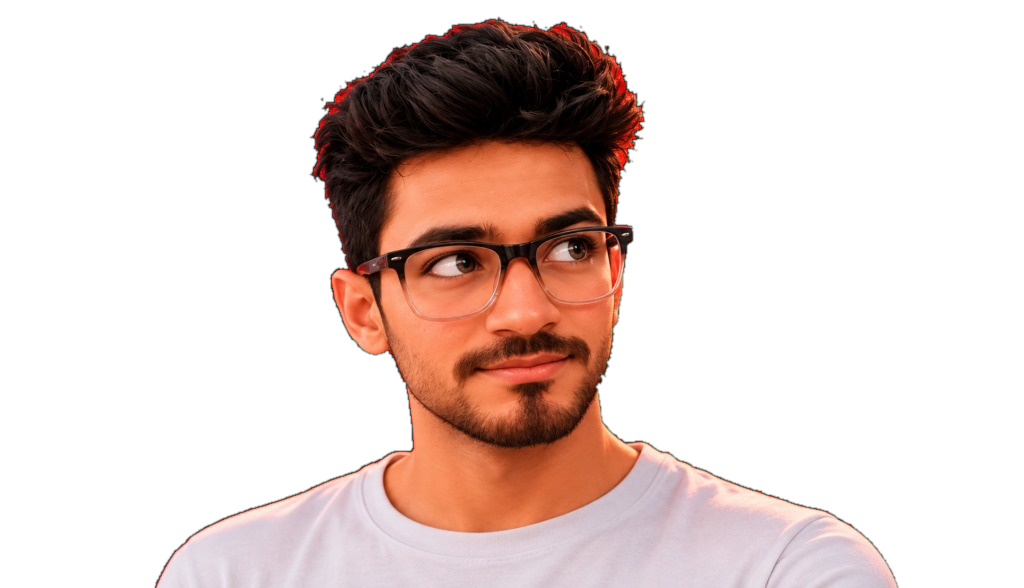
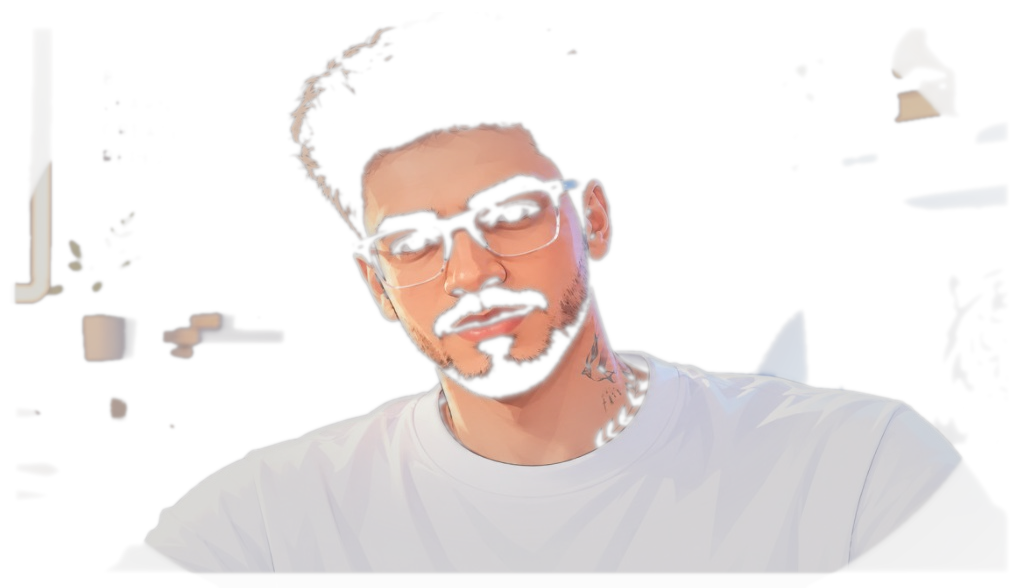
feat(credits): add Felix Reiseberg special thanks entry and sharpen PC CRT rendering
- Add FELIX constant with name, GitHub URL, and role description
- Render 'Special thanks' paragraph in credits card with accent-colored .cred-thanks style
- Add .cred-thanks and .cred-thanks a CSS rules for accent-colored italic attribution
- Switch PC canvas imageSmoothingEnabled to false for pixel-accurate CRT phosphor text
- Update portrait texture (ayush_nobg.png)

diff --git a/public/scene/desktop.js b/public/scene/desktop.js
@@ -2594,7 +2594,7 @@ document.querySelectorAll("[data-page]").forEach(a=>a.addEventListener("click",e
 }));
 $("#home-link").onclick=()=>{ gesture(); pressAnim(buttons[0]); click("button"); go("home"); };
 // Credits: what the licences ask for (the work, its author, where it's from, the licence, and that it was changed: every one is
-// cut, filtered or looped), and a line of thanks for the CC0 work
+// cut, filtered or looped), and a line of thanks for the CC0 work. Felix Reiseberg: design direction throughout the build.
 const CC_BY={"2.0":"https://creativecommons.org/licenses/by/2.0/","4.0":"https://creativecommons.org/licenses/by/4.0/"}, FS="https://freesound.org/people/";
 const CREDITS=[
   ["Berlin Skyline","Billie Grace Ward",null,"https://commons.wikimedia.org/wiki/File:Berin_Skyline_(39941687570).jpg","2.0"],
@@ -2604,12 +2604,15 @@ const CREDITS=[
   ["VCR eject","magedu",FS+"magedu/",FS+"magedu/sounds/267832/","4.0"],
 ];
 const CC0=[["SignatureSoundsOrg","869851"],["photogtony","242008"],["qubodup","737955"],["matrixx2k","745241"],["Sanderboah","838726"],["Fission9","693859"],["Warrick_Lendon","542635"],["nodzSound","506536"]];
+// Special thanks — people who shaped this room with their direction and feedback
+const FELIX={name:"Felix Reiseberg",url:"https://github.com/felixrieseberg",role:"Design direction, UX feedback, and loading screen concept"};
 const extLink=(u,t)=>`<a href="${u}" target="_blank" rel="noopener">${esc(t)}</a>`;
 // On a desktop the card from the card file floats up with the credits typed on it; the sheet's HTML stays in the page, out of
 // sight, for keyboards and screen readers, and the link the keys are on is marked on the card
 function showCredits(){
   openSheet("credits","Credits",`<ul class="cred">${CREDITS.map(([t,a,au,u,v])=>`<li>${extLink(u,t)} · ${au?extLink(au,a):esc(a)} · ${extLink(CC_BY[v],"CC BY "+v)}, adapted</li>`).join("")}</ul>`+
-    `<p class="cred0">CC0, with thanks: sounds by ${CC0.map(([a,n])=>extLink(`${FS}${a}/sounds/${n}/`,a)).join(", ")}; furniture and props from ${extLink("https://polyhaven.com/models","Poly Haven")}.</p>`);
+    `<p class="cred0">CC0, with thanks: sounds by ${CC0.map(([a,n])=>extLink(`${FS}${a}/sounds/${n}/`,a)).join(", ")}; furniture and props from ${extLink("https://polyhaven.com/models","Poly Haven")}.</p>`+
+    `<p class="cred0 cred-thanks">Special thanks: ${extLink(FELIX.url,FELIX.name)} — ${esc(FELIX.role)}.</p>`);
   if(credOn()){ document.body.classList.add("credcard"); credits.lift();
     $("#p-body").querySelectorAll("a").forEach((a,i)=>{ a.onfocus=()=>credits.focus(i); a.onblur=()=>credits.focus(-1); }); }
   live("Credits");

diff --git a/public/scene/desktop.css b/public/scene/desktop.css
@@ -202,6 +202,8 @@ body.credcard #panel .close{display:none}
 .cred{list-style:none;margin:0;padding:0;font-size:13px;line-height:23.2px}
 .cred0{margin:6px 0 0;font-size:12px;line-height:23.2px;color:var(--muted)}
 .cred0 a{color:inherit}
+.cred-thanks{color:var(--accent)!important;font-style:italic}
+.cred-thanks a{color:var(--accent)!important;text-decoration-color:rgba(179,64,44,.5)}
 
 .ctl{right:20px;bottom:calc(20px + env(safe-area-inset-bottom,0px));display:flex;flex-direction:column;align-items:flex-end;gap:8px;pointer-events:none}
 .ctl .hint{font-family:var(--osd);font-size:17px;color:#d3cfdc;text-align:right;line-height:1.15;text-shadow:0 0 1px #000,0 0 2px #000,0 1px 1px #000,0 0 9px rgba(0,0,0,.8)}   /* outlined like VCR on-screen text, so it reads over the lit notepad */

diff --git a/public/scene/pc/basic.js b/public/scene/pc/basic.js
@@ -600,7 +600,7 @@ function createPC(opts, V) {
     if (f.n <= 0) return false;
     const sx = W / LW, sy = H / LH;
     const ox = Math.floor(f.x0 * sx), oy = Math.floor(f.y0 * sy), ow = Math.ceil(f.x1 * sx) - ox, oh = Math.ceil(f.y1 * sy) - oy;
-    out.setTransform(1, 0, 0, 1, 0, 0); out.globalAlpha = 1; out.imageSmoothingEnabled = true;
+    out.setTransform(1, 0, 0, 1, 0, 0); out.globalAlpha = 1; out.imageSmoothingEnabled = false;
     f.n--;
     if (f.n > 0 && opts.persistence !== false) {
       out.globalCompositeOperation = "source-over";
